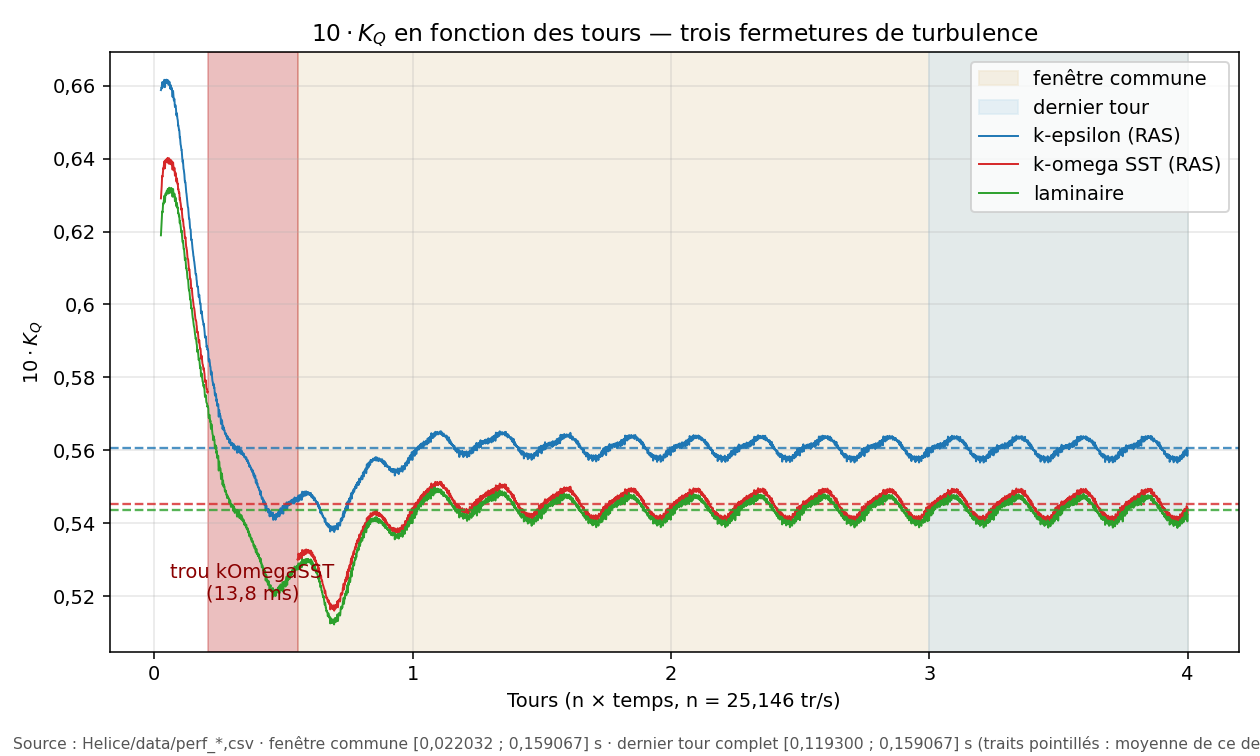
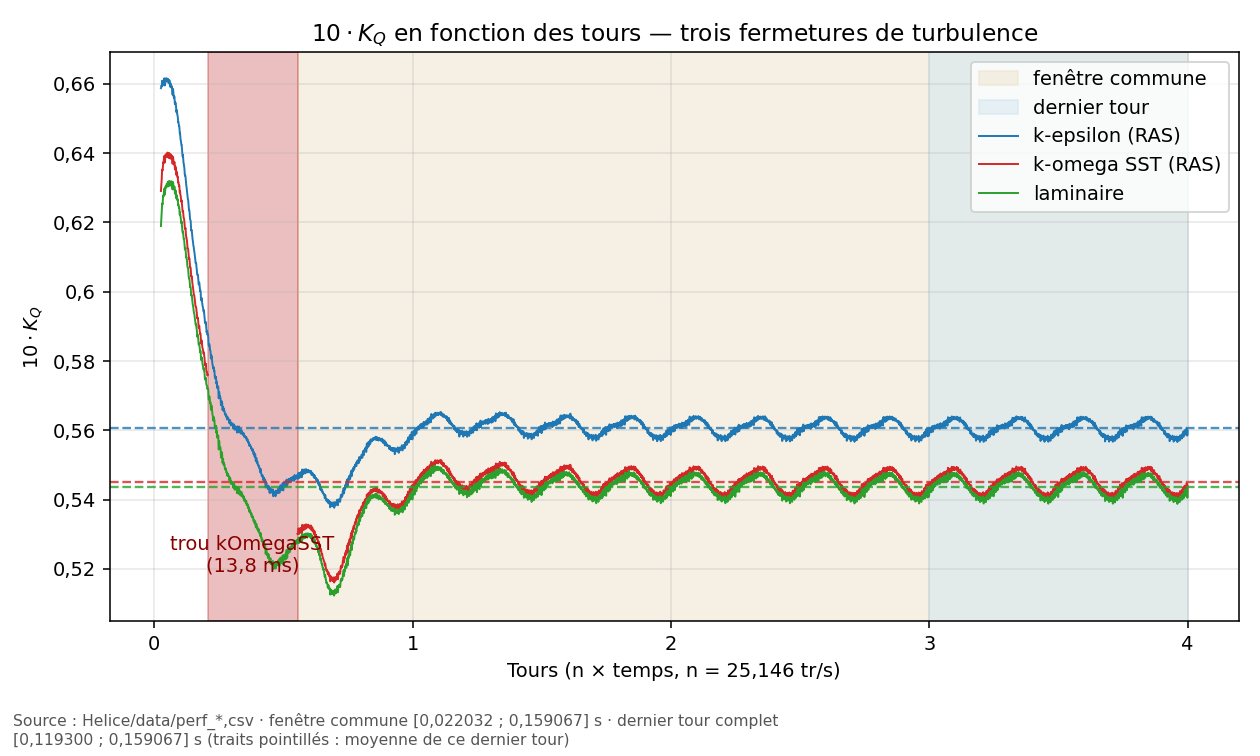
S02: outillage de la refonte (indices en bas opt-in pour S02, contour du couple neutralise de la progression, deux figures fenetre/ecart, pied des figures K_T, 10 K_Q, eta_0 sur deux lignes) ; la source de S02 reste hors du suivi public

diff --git a/_Setup/outils/generer_figure_fenetre.py b/_Setup/outils/generer_figure_fenetre.py
@@ -1,0 +1,94 @@
+#!/usr/bin/env python3
+"""Deux figures pour la séance 2 : l'écart entre modèles contre l'amplitude de l'oscillation de K_T, selon la FENÊTRE de lecture.
+
+  FIG-fon-s7-ecart-amplitude-dernier-tour.png     : K_T des trois fermetures sur le dernier tour complet, ordonnée de largeur fixée.
+  FIG-fon-s7-ecart-amplitude-deux-fenetres.png    : le même calcul lu sur deux fenêtres (de 0,5 à 1,5 tour, puis dernier tour), MÊME largeur d'ordonnée.
+
+Lit `Helice/data/perf_<modele>.csv` (colonnes `tours`, `KT`) ; aucun chiffre n'est recopié : amplitudes (maximum moins minimum) et écart entre
+modèles (moyennes pondérées par le temps, dernier tour complet) sont calculés ici, et imprimés pour être comparés à `PARAMETRES_CAS.md`.
+Usage : python3 _Setup/outils/generer_figure_fenetre.py
+"""
+import math
+from pathlib import Path
+
+import matplotlib
+matplotlib.use("Agg")
+import matplotlib.pyplot as plt
+import numpy as np
+import pandas as pd
+from matplotlib.ticker import FuncFormatter
+
+ROOT = Path(__file__).resolve().parents[2]
+OUT = ROOT / "Helice" / "Images"
+MODELES = [("kEpsilon", "k-ε", "#1f77b4"), ("kOmegaSST", "k-ω SST", "#d62728"), ("laminar", "laminaire", "#2ca02c")]
+T = 2 * math.pi / 158
+N = 158 / (2 * math.pi)
+LARGEUR_Y = 0.04  # même largeur d'ordonnée dans tous les panneaux : les amplitudes se comparent à l'oeil
+plt.rcParams.update({"font.size": 15, "axes.titlesize": 15, "axes.labelsize": 15, "legend.fontsize": 13})
+
+donnees = {}
+for m, _, _ in MODELES:
+    d = pd.read_csv(ROOT / "Helice" / "data" / f"perf_{m}.csv")
+    donnees[m] = d[d.time >= 0.001]
+t_fin = min(d.time.iloc[-1] for d in donnees.values())
+
+
+def fenetre(d, a, b):
+    return d[(d.time >= a - 1e-12) & (d.time <= b + 1e-12)]
+
+
+def moyenne_temps(w):
+    return np.trapz(w.KT, w.time) / (w.time.iloc[-1] - w.time.iloc[0])
+
+
+def virgule(x, nd):
+    return f"{x:.{nd}f}".replace(".", ",")
+
+
+def panneau(ax, a, b, titre):
+    ws = {m: fenetre(d, a, b) for m, d in donnees.items()}
+    milieu = np.mean([w.KT.mean() for w in ws.values()])
+    for m, nom, c in MODELES:
+        ax.plot(ws[m].time * N, ws[m].KT, color=c, lw=1.1, label=nom)
+    ax.set_ylim(milieu - LARGEUR_Y / 2, milieu + LARGEUR_Y / 2)
+    ax.set_xlim(a * N, b * N)
+    ax.set_xlabel("Tours")
+    ax.grid(True, alpha=0.3)
+    virg = FuncFormatter(lambda x, _: f"{x:g}".replace(".", ","))
+    ax.xaxis.set_major_formatter(virg); ax.yaxis.set_major_formatter(virg)
+    amp = [w.KT.max() - w.KT.min() for w in ws.values()]
+    ax.set_title(titre + f"\namplitude de $K_T$ : {virgule(min(amp), 4 if min(amp) < 0.01 else 3)} à {virgule(max(amp), 4 if max(amp) < 0.01 else 3)}", loc="left")
+    return ws, amp
+
+
+t0d = t_fin - T
+w_dernier = {m: fenetre(d, t0d, t_fin) for m, d in donnees.items()}
+moy = {m: moyenne_temps(w) for m, w in w_dernier.items()}
+ecart = max(moy.values()) - min(moy.values())
+amp_dernier = [w.KT.max() - w.KT.min() for w in w_dernier.values()]
+print(f"dernier tour [{t0d:.6f} ; {t_fin:.6f}] : K_T moyens {', '.join(f'{v:.4f}' for v in moy.values())} ; écart {ecart:.4f} ; amplitudes {', '.join(f'{v:.4f}' for v in amp_dernier)}")
+
+# --- figure 1 : dernier tour
+fig, ax = plt.subplots(figsize=(7.4, 5.4))
+panneau(ax, t0d, t_fin, "Dernier tour complet")
+ax.set_ylabel("$K_T$")
+ax.text(0.98, 0.04, f"écart entre les moyennes des trois fermetures : {virgule(ecart, 4)}", transform=ax.transAxes, ha="right", fontsize=13)
+ax.legend(loc="upper left")
+fig.tight_layout()
+fig.savefig(OUT / "FIG-fon-s7-ecart-amplitude-dernier-tour.png", dpi=150, facecolor="white")
+plt.close(fig)
+
+# --- figure 2 : deux fenêtres, même largeur d'ordonnée
+fig, axes = plt.subplots(1, 2, figsize=(11.5, 5.4))
+_, amp_a = panneau(axes[0], 0.5 * T, 1.5 * T, "Du demi-tour au tour et demi")
+_, amp_b = panneau(axes[1], t0d, t_fin, "Dernier tour complet")
+axes[0].set_ylabel("$K_T$")
+axes[0].legend(loc="upper right")
+axes[1].text(0.98, 0.04, f"écart entre modèles : {virgule(ecart, 4)}", transform=axes[1].transAxes, ha="right", fontsize=13)
+axes[0].text(0.98, 0.04, f"écart entre modèles : {virgule(ecart, 4)}", transform=axes[0].transAxes, ha="right", fontsize=13)
+fig.text(0.01, 0.005, "Même largeur d'ordonnée (0,04) dans les deux panneaux.", fontsize=11, color="#555555", va="bottom")
+fig.tight_layout(rect=(0, 0.03, 1, 1))
+fig.savefig(OUT / "FIG-fon-s7-ecart-amplitude-deux-fenetres.png", dpi=150, facecolor="white")
+plt.close(fig)
+print(f"fenêtre A [{0.5 * T:.6f} ; {1.5 * T:.6f}] : amplitudes {', '.join(f'{v:.4f}' for v in amp_a)}")
+print("écrit : FIG-fon-s7-ecart-amplitude-dernier-tour.png, FIG-fon-s7-ecart-amplitude-deux-fenetres.png")

diff --git a/Seances/generer_pptx_seance.py b/Seances/generer_pptx_seance.py
@@ -522,6 +522,10 @@ def build_slide(prs, s, avec_notes=True, variante_figures="public"):
                 card_ph.fill.solid(); card_ph.fill.fore_color.rgb = _WHITE
                 _fill_text(pastille_ph, "")
                 pastille_ph.fill.solid(); pastille_ph.fill.fore_color.rgb = _WHITE
+                # Contour blanc aussi : sinon la pastille neutralisée apparaît comme un cercle vide à contour visible.
+                card_ph.line.color.rgb = _WHITE
+                pastille_ph.line.color.rgb = _WHITE
+                card_ph.shadow.inherit = False; pastille_ph.shadow.inherit = False
         liaison_ph = _ph_by_idx(slide, 14)
         if liaison_ph is not None:
             _fill_text(liaison_ph, liaison)
@@ -581,6 +585,47 @@ def build_slide(prs, s, avec_notes=True, variante_figures="public"):
 
 OUT_ENSEIGNANT = os.path.join(HERE, f"{STEM}_enseignant.pptx")
 
+# Indices : `K_T`, `10K_Q`, `J_T`.. et `U_aval` s'écrivent en texte simple dans la source ; le rendu PowerPoint les met en indice.
+# OPT-IN par séance (INDICES_STEMS) : les decks déjà validés (S01, S03) ne sont pas régénérés différemment.
+INDICES_STEMS = {"S02"}
+_INDICE_RE = re.compile(r"(10K|K|J)_([TQ])(?![A-Za-z0-9_])|(U)_(aval)(?![A-Za-z0-9_])")
+
+def _indices_en_bas(prs):
+    import copy
+    from pptx.oxml.ns import qn
+    def traiter_paragraphe(par):
+        for run in list(par.runs):
+            t = run.text
+            ms = list(_INDICE_RE.finditer(t))
+            if not ms:
+                continue
+            r = run._r
+            morceaux, pos = [], 0
+            for m in ms:
+                base, ind = (m.group(1), m.group(2)) if m.group(1) else (m.group(3), m.group(4))
+                if m.start() > pos:
+                    morceaux.append((t[pos:m.start()], False))
+                morceaux.append((base, False)); morceaux.append((ind, True)); pos = m.end()
+            if pos < len(t):
+                morceaux.append((t[pos:], False))
+            for texte, indice in morceaux:
+                e = copy.deepcopy(r)
+                e.find(qn("a:t")).text = texte
+                if indice:
+                    e.get_or_add_rPr().set("baseline", "-25000")
+                r.addprevious(e)
+            r.getparent().remove(r)
+    for sl in prs.slides:
+        for sh in sl.shapes:
+            if sh.has_text_frame:
+                for par in sh.text_frame.paragraphs:
+                    traiter_paragraphe(par)
+            if getattr(sh, "has_table", False) and sh.has_table:
+                for row in sh.table.rows:
+                    for cell in row.cells:
+                        for par in cell.text_frame.paragraphs:
+                            traiter_paragraphe(par)
+
 def _construire(slides, avec_notes, variante_figures="public"):
     """Presentation() indépendante par exemplaire -- pas de notes_slide créé du tout sur
     l'exemplaire public (pas une suppression après coup : _notes() n'est simplement jamais
@@ -588,6 +633,8 @@ def _construire(slides, avec_notes, variante_figures="public"):
     prs = Presentation(TEMPLATE)
     for s in slides:
         build_slide(prs, s, avec_notes=avec_notes, variante_figures=variante_figures)
+    if STEM in INDICES_STEMS:
+        _indices_en_bas(prs)
     return prs
 
 def build():

diff --git a/_Setup/outils/tracer_series_temporelles.py b/_Setup/outils/tracer_series_temporelles.py
@@ -161,11 +161,12 @@ def plot_grandeur(rows_by_case, key, label, out_name):
     ax.grid(True, alpha=0.3)
     ax.legend(loc="upper right", fontsize=10)
     ax.set_title(f"{label} en fonction des tours — trois fermetures de turbulence")
-    fig.text(0.01, 0.01,
-              f"Source : Helice/data/perf_*.csv · fenêtre commune [{t0_c:.6f} ; {t1_c:.6f}] s · "
-              f"dernier tour complet [{t0_d:.6f} ; {t1_d:.6f}] s (traits pointillés : moyenne de ce dernier tour)".replace(".", ","),
-              fontsize=8, color="#555555")
-    fig.tight_layout(rect=(0, 0.03, 1, 1))
+    import textwrap
+    pied = (f"Source : Helice/data/perf_*.csv · fenêtre commune [{t0_c:.6f} ; {t1_c:.6f}] s · "
+            f"dernier tour complet [{t0_d:.6f} ; {t1_d:.6f}] s (traits pointillés : moyenne de ce dernier tour)").replace(".", ",")
+    # Pied sur deux lignes : sur une seule il dépassait la largeur de la figure et sa fin était coupée (constaté au rendu).
+    fig.text(0.01, 0.01, textwrap.fill(pied, width=105), fontsize=8, color="#555555", va="bottom")
+    fig.tight_layout(rect=(0, 0.07, 1, 1))
     out = OUT_DIR / out_name
     fig.savefig(out, dpi=140)
     plt.close(fig)
